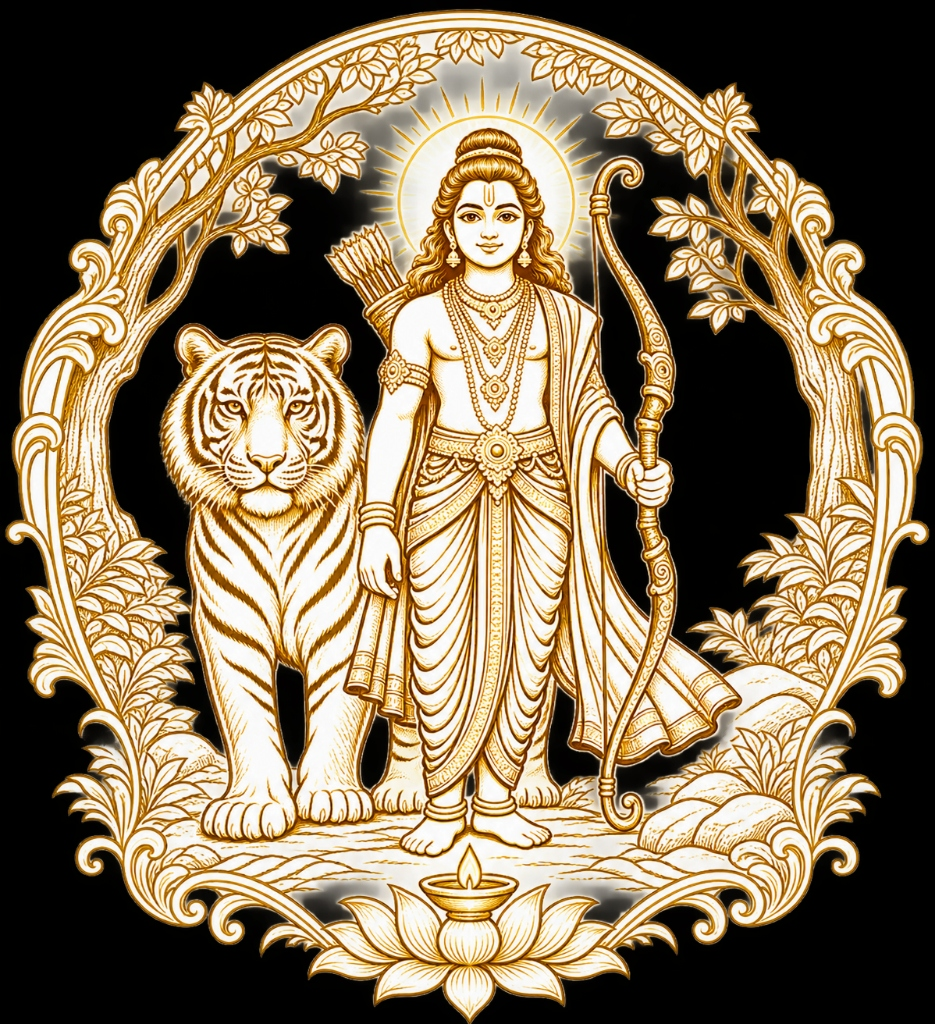
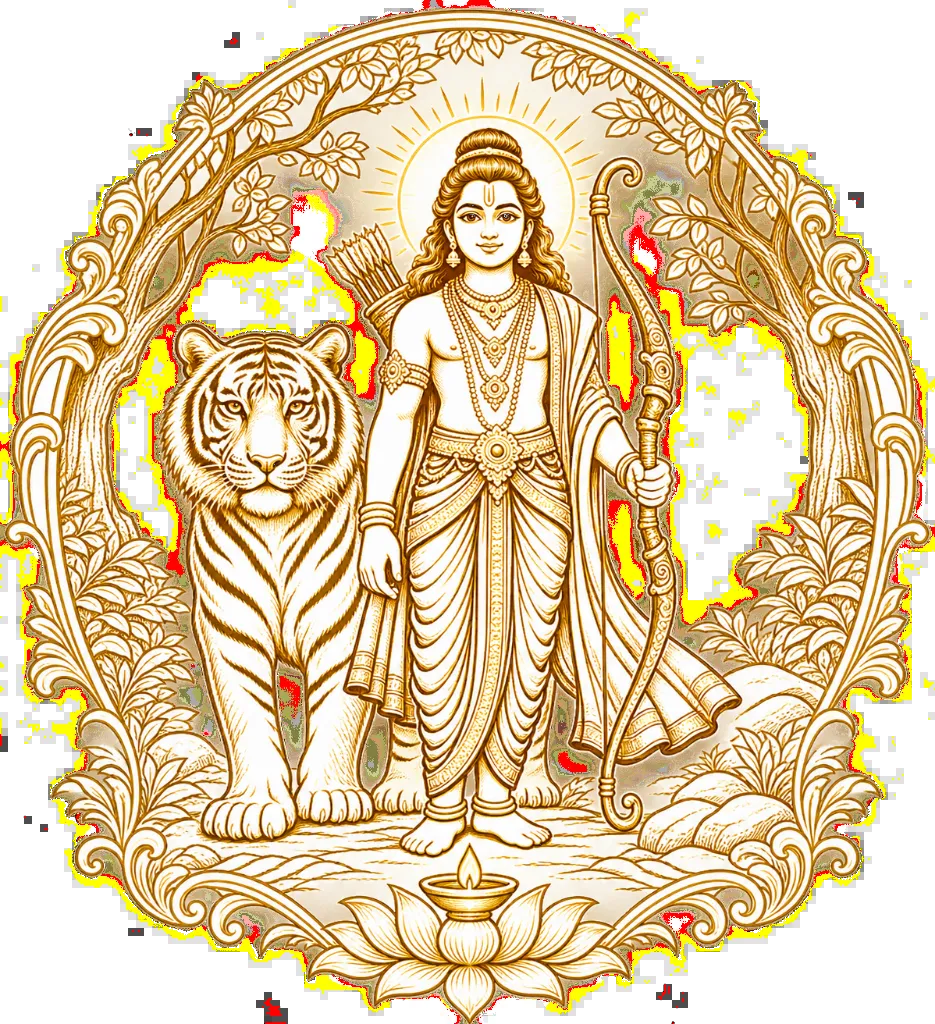
fix(website): replace rectangular watermark with true transparent RGBA watermark and radial feathered blending

diff --git a/src/categories.css b/src/categories.css
@@ -18,27 +18,29 @@
 /* Devotional Watermark Background with Soft Opacity */
 .sa-categories-bg-watermark {
   position: absolute;
-  top: 50%;
+  top: 52%;
   left: 50%;
   transform: translate(-50%, -50%);
-  width: min(850px, 90vw);
-  max-height: 85vh;
+  width: min(720px, 85vw);
+  max-height: 75vh;
   display: flex;
   align-items: center;
   justify-content: center;
   pointer-events: none;
   z-index: 1;
-  opacity: 0.12; /* Refined elegant devotional opacity */
+  opacity: 0.12;
   mix-blend-mode: multiply;
+  -webkit-mask-image: radial-gradient(ellipse at center, rgba(0, 0, 0, 1) 50%, rgba(0, 0, 0, 0) 90%);
+  mask-image: radial-gradient(ellipse at center, rgba(0, 0, 0, 1) 50%, rgba(0, 0, 0, 0) 90%);
   transition: opacity 0.3s ease;
 }
 
 .sa-categories-bg-watermark-img {
   width: 100%;
   height: auto;
-  max-height: 85vh;
+  max-height: 75vh;
   object-fit: contain;
-  filter: contrast(1.1) brightness(0.95);
+  filter: contrast(1.05) brightness(0.98);
 }
 
 /* 1. Corner Temple Bells & Arches matching Reference */
